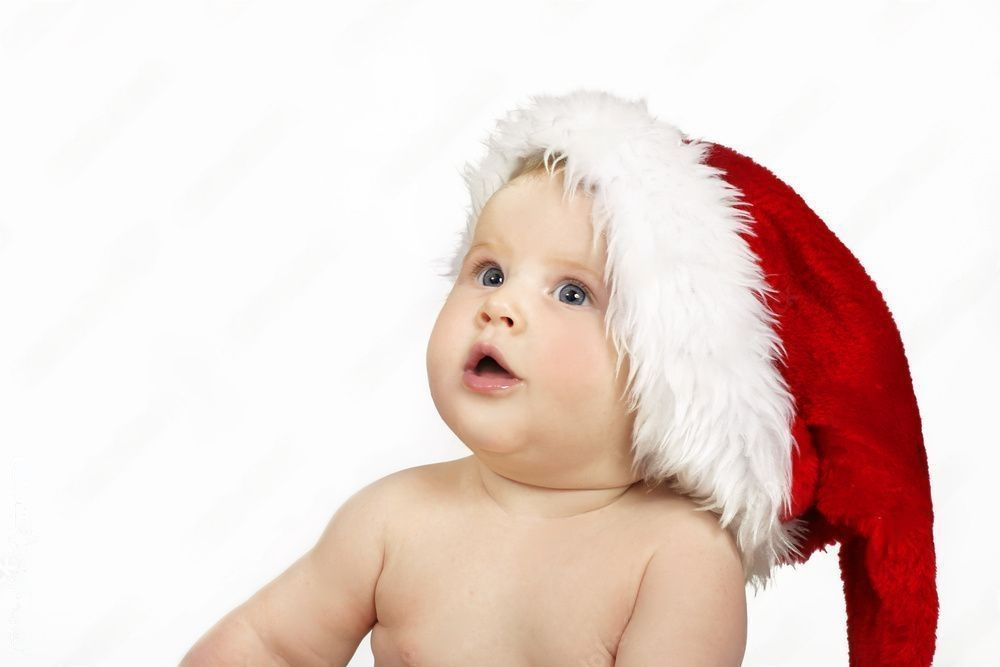
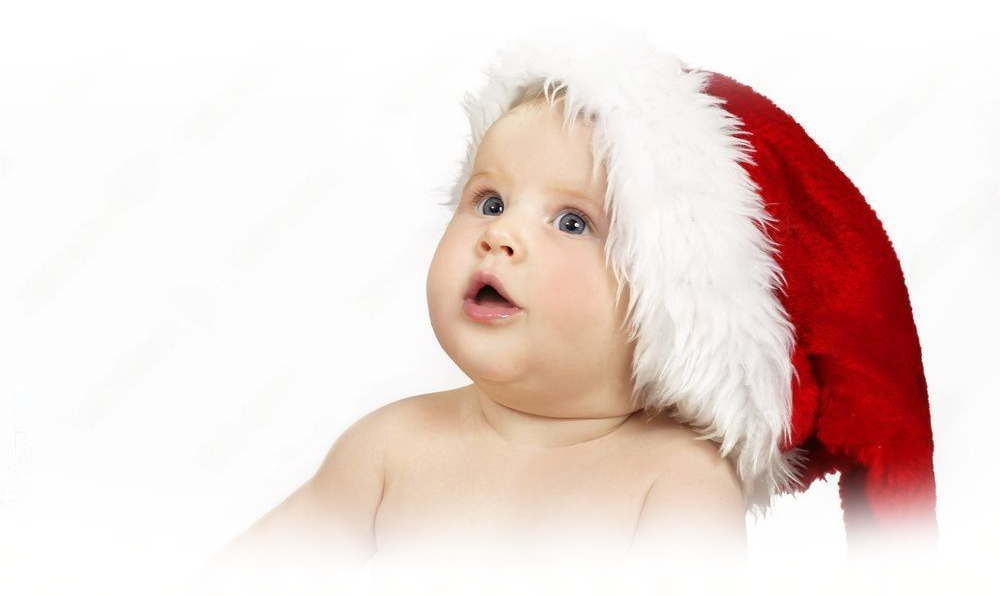
ok

Changed region(s): [[0.155, 0.0906, 0.961, 1.0], [0.837, 0.5134, 0.868, 0.5738]]

diff --git a/index.html b/index.html
@@ -134,13 +134,13 @@
                                     </ul>
 
                                     <div class="fluid-container ">
-                                          <div class="mb_80 mt_80">
-                                                <img src="images/bg-4.jpeg" alt="slider" style="width: 100%;">
+                                          <div class="mb_80 mt_40">
+                                                <img src="images/bg-4.jpeg" alt="slider" style="width: 100%">
                                           </div>
                                     </div>
                 
                         <div class="row mb_80 px-5-percent">
-                              <div class="col-md-12">
+                              <div class="col-md-8 px-5-percent">
                               <blockquote class="align-center">
                               <p class="mb-2">...perchè la creazione più bella è quella che dobbiamo ancora realizzare...</p>
                              
